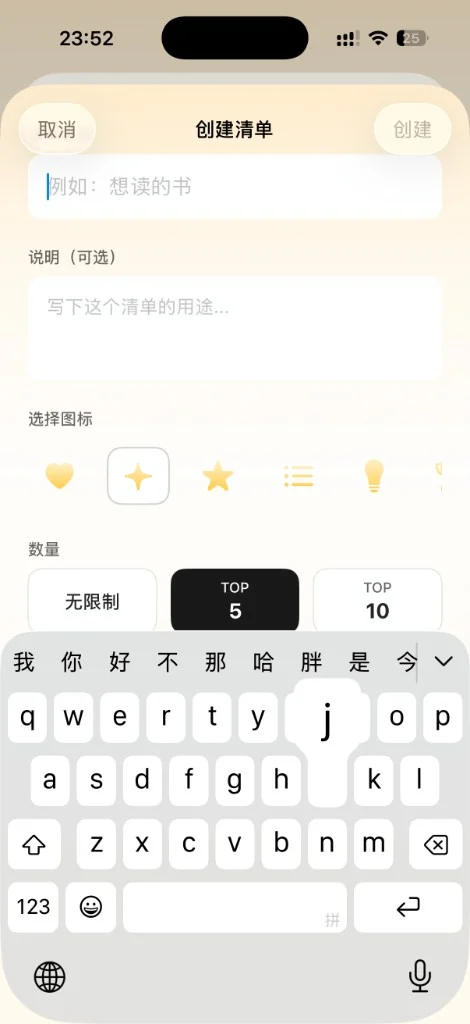
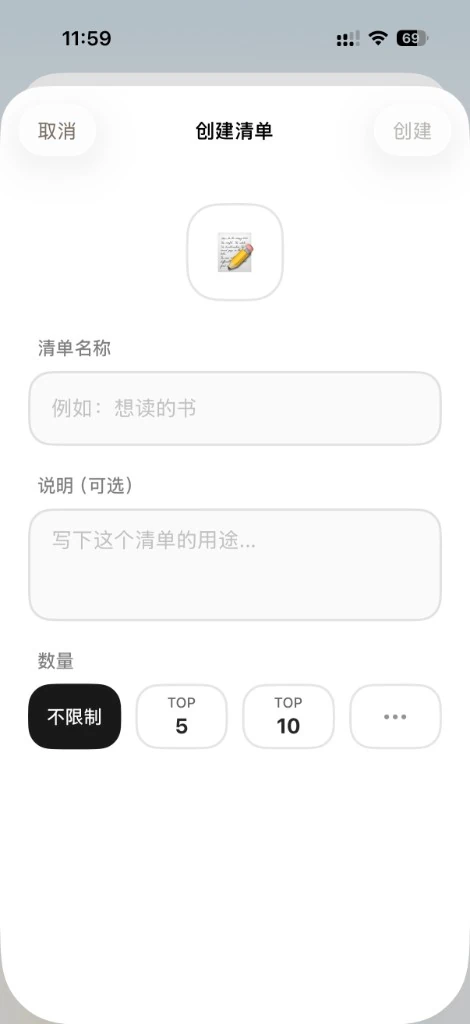
Slim Selfly media and refresh create-before screenshot.
Compress the Top 3 demo video, convert inspiration PNGs to WebP, replace the create-before asset, and drop unused images.

diff --git a/src/app/[locale]/projects/selfly/ExploreTemplatesSwitcher.tsx b/src/app/[locale]/projects/selfly/ExploreTemplatesSwitcher.tsx
@@ -12,15 +12,15 @@ type ExploreTemplatesSwitcherProps = {
 
 const zhInspirationSlides = [
   {
-    src: "/images/selfly0/explore-create-inspiration-list-zh.png",
+    src: "/images/selfly0/explore-create-inspiration-list-zh.webp",
     alt: "从场景开始：清单模板展示我的价值观、核心优势、喜好、边界等记录灵感",
   },
   {
-    src: "/images/selfly0/explore-create-inspiration-plan-zh.png",
+    src: "/images/selfly0/explore-create-inspiration-plan-zh.webp",
     alt: "从场景开始：计划模板展示周目标、想去的地方、年度目标、月目标等记录灵感",
   },
   {
-    src: "/images/selfly0/explore-create-inspiration-diary-zh.png",
+    src: "/images/selfly0/explore-create-inspiration-diary-zh.webp",
     alt: "从场景开始：日记模板展示幸福日记、情绪日记、灵感日记、感恩日记等记录灵感",
   },
 ] as const;